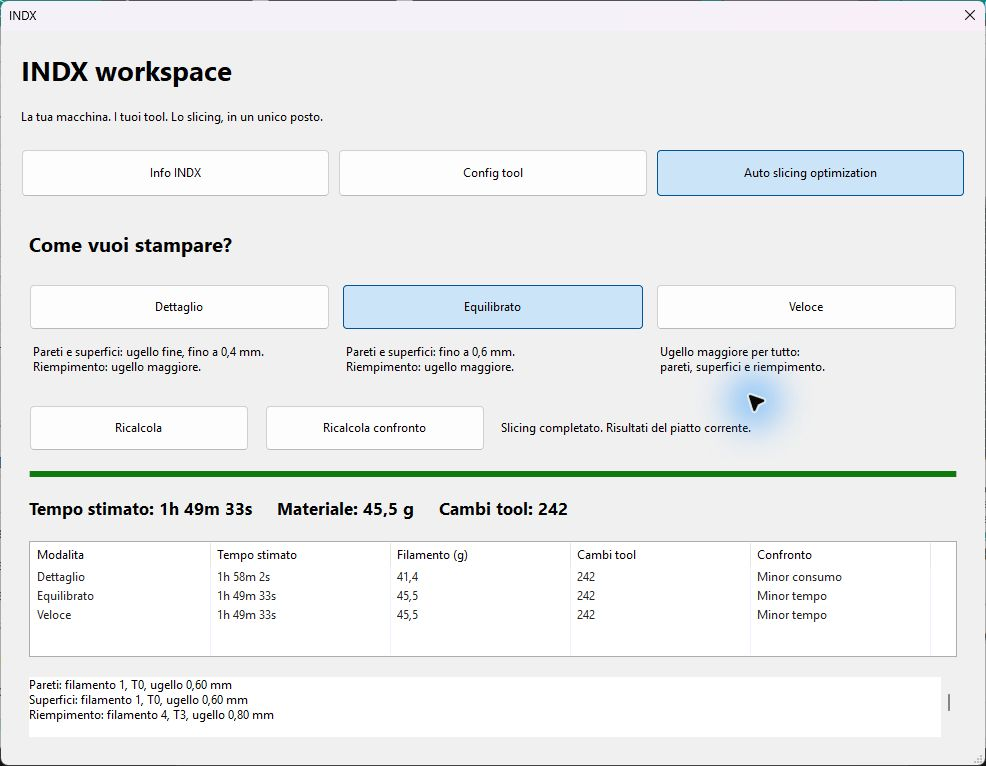
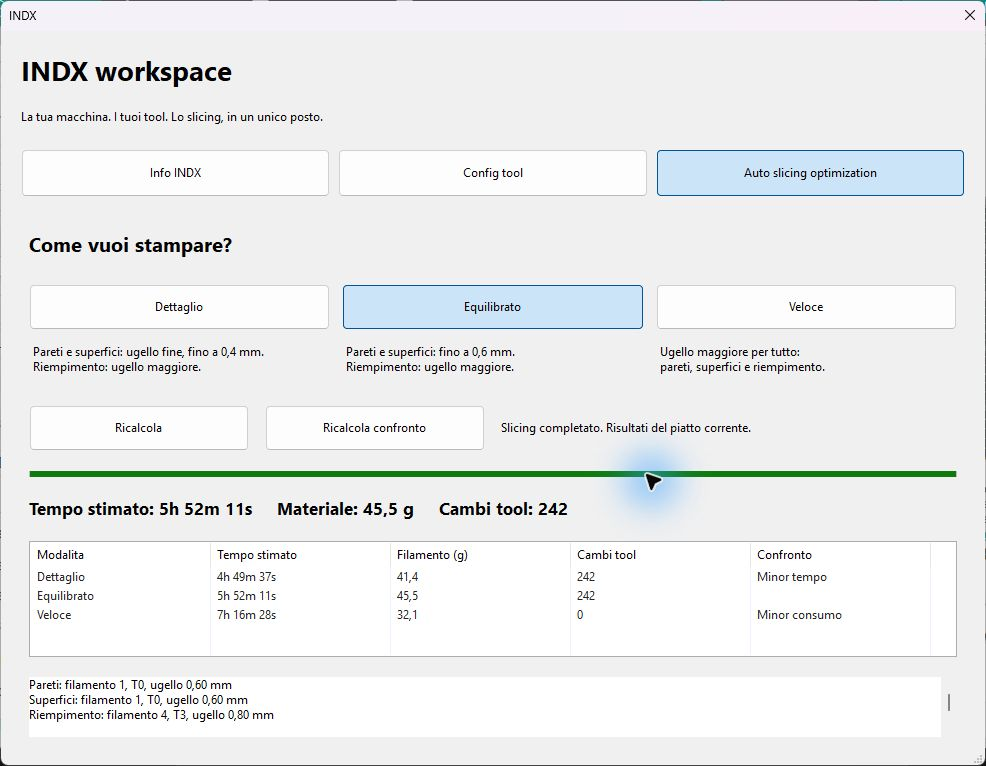
Propone infill alternativo solo dopo un risparmio misurato
Per ogni modalita confronta slicing completo della base e delle alternative, poi propone solo la piu rapida con risparmio in tempo/percentuale e differenza nei cambi tool. No ripristina la base; Si applica solo infill. Ricalcola la variante scelta e scarta stime invalide o obsolete.

Verificati casi piu lenti, accettazione e rifiuto; 348 asserzioni IndxChecks, 1434 nella matrice e regressioni FFF. Guida e prove aggiornate. Corrette collisioni dei nomi backup su orologi a bassa risoluzione con test a timestamp costante. Nessuna stampa fisica o aggiornamento della stampante.

diff --git a/TEST_PREVIEW_03.md b/TEST_PREVIEW_03.md
@@ -92,14 +92,21 @@ Verifica invalidazione: cambiando temporaneamente il layer da 0,20 a 0,18 mm, tu
 ![Confronto delle tre modalita](indx-confronto-modalita.png)
 
 
-## Confronto automatico e materiale alternativo
+## Confronto automatico e risparmio del materiale alternativo
 
-Build Windows Release completata. Test C++: 308 asserzioni in 13 casi IndxChecks; matrice di 60 slicing nativi con 967 asserzioni; regressioni CombinedInfill/UsedLayerTools/GCodeWriter: 467 asserzioni in 38 casi. Verificati ugelli alternativi maggiori, esclusione supporti/materiali sconosciuti e piccoli, conservazione delle proposte omogenee e mancato uso automatico di un materiale diverso.
+Build Windows Release. Test C++ IndxChecks: 348 asserzioni in 14 casi, incluso risparmio positivo/equivalente/negativo, precisione del secondo mostrato e tempi non validi. Matrice nativa di 60 slicing e regressioni CombinedInfill/UsedLayerTools/GCodeWriter: 1434 asserzioni in 39 casi. Clang-tidy non disponibile nella toolchain portatile priva di una installazione Visual Studio registrata.
 
-Prova UI isolata, nessuna connessione alla stampante: ingresso in Auto slicing optimization apre la richiesta senza premere Confronta. Mantenendo PLA, completate tutte le righe: Dettaglio 1h54m19s /39,1g/242 cambi; Equilibrato 1h46m16s /43,5g/242; Veloce 1h8m40s /32,1g/0. Infill PLA massimo 0,6.
+UI isolata senza connessione alla stampante: fixture con PLA su 0,6/0,4/0,6 e un profilo TEST SIMULATO PLA-CF su 0,8. Non attesta compatibilita o prestazioni fisiche. Portate e geometria servono solo a esercitare il software.
 
-Accettando il profilo TEST SIMULATO PLA-CF sullo 0,8, solo il riempimento sparso passa a T3; pareti e superfici restano PLA. Tre risultati completati senza ripetere la domanda: Dettaglio 1h58m2s /41,4g/242; Equilibrato e Veloce 1h49m33s /45,5g/242. Questo fixture non dimostra compatibilita fisica PLA/PLA-CF e mostra che un ugello maggiore puo anche peggiorare il tempo. Nessun invio, movimento, riscaldamento o flash.
+1. Portate tutte 8 mm3/s: le alternative piu lente non producono alcuna domanda. Tre modalita completate e infill principale ripristinato: Dettaglio 1h54m19s /39,1g/242 cambi; Equilibrato 1h46m16s /43,5g/242; Veloce 1h8m40s /32,1g/0.
+2. Portate simulate 1/1/1/30 mm3/s: Dettaglio passa da 8h49m51s a 4h49m37s, risparmio 240m14s, cambi 242 ->242. Accettato, infill T3/0,8 con pareti e superfici T1/0,4.
+3. Nello stesso confronto Veloce passa da 7h16m28s a 5h52m0s, risparmio 84m28s (19,4%), cambi 0 ->242. Rifiutato: la riga finale torna a 7h16m28s e zero cambi.
+4. Equilibrato accettato: 5h52m11s, infill T3 e pareti/superfici T0/0,6. La tabella distingue le tre varianti effettivamente accettate, non gli ultimi tentativi temporanei.
 
-![Esito del fixture con materiale alternativo](indx-materiale-alternativo-risultato.png)
+![Nessuna proposta quando non conviene](indx-alternativa-senza-risparmio.png)
+![Risparmio misurato e variazione dei cambi](indx-materiale-risparmio-cambi.png)
+![Risultati dopo accettazione e rifiuto](indx-materiale-alternativo-risultato.png)
 
-Verifica anche nella versione installata con quattro slot PLA: apertura della pagina avvia e completa automaticamente il confronto senza richiesta di materiale. Risultati confermati: 1h58m2s /41,4g/242; 1h49m33s /45,5g/242; 1h11m33s /38,0g/0. DLL installata uguale alla build verificata (SHA-256 87870f1152e91edf686b44ec57112130bcc2643d05ffc082c13e78e735b027fa).
+Nessun invio, movimento, riscaldamento o flash. Gli aumenti di portata del fixture non sono profili da utilizzare sulla stampante reale.
+
+Verifica finale del pacchetto e installazione/rollback temporanei superata. Corretto anche un conflitto fra nomi backup su orologi a bassa risoluzione: le directory ora vengono create in modo univoco e atomico. Il test forza sette salvataggi con lo stesso timestamp. Nessun aggiornamento della stampante eseguito in questa verifica.

diff --git a/NUOVE_FUNZIONI.md b/NUOVE_FUNZIONI.md
@@ -74,10 +74,14 @@ La pagina Auto slicing optimization conserva nella stessa tabella tempo stimato,
 Aprire **Auto slicing optimization** avvia automaticamente tre slicing nativi in sequenza; **Ricalcola confronto** permette di ripeterli, terminando con la modalita inizialmente selezionata. Anche il normale cambio di modalita aggiorna la relativa riga. Il confronto viene conservato durante la sessione del pannello; chiudendo il pannello occorre ricalcolarlo. Una modifica a piatto, modello, montaggio, filamento o parametri invalida i risultati. I tempi sono stime del motore Orca e il consumo comprende cio che Orca conteggia nel piatto, inclusa la torre se presente.
 
 
-## Materiale alternativo per il riempimento
+## Materiale alternativo: proposta solo dopo il confronto dei tempi
 
-Le proposte tengono pareti e superfici nel materiale assegnato alle pareti esterne (primo slot se automatico). Se un altro materiale e associato a un ugello piu grande del migliore disponibile per il riempimento principale, compare una richiesta prima del confronto. La scelta iniziale mantiene il materiale delle pareti. Si puo scegliere esplicitamente un altro profilo per il solo riempimento sparso; i materiali marcati per supporti, senza tipo dichiarato e gli ugelli uguali o piu piccoli sono esclusi.
+Per ogni modalita Orca calcola prima il piatto con il materiale principale, poi con ciascuna alternativa su ugello maggiore. Pareti e superfici mantengono il materiale assegnato alle pareti esterne (primo slot se automatico). Solo il riempimento sparso cambia nelle prove. Sono esclusi materiali per supporti, tipo sconosciuto e ugelli uguali o piu piccoli del migliore infill principale.
 
-Il diametro indica un'opportunita, non un risparmio garantito. Confermare l'alternativa solo dopo aver verificato adesione fra materiali, temperature e piano per il pezzo: il software non certifica la compatibilita dal nome. La tabella mostra i tempi effettivamente stimati dal motore, compresi i cambi tool. La scelta viene riutilizzata per le tre modalita e azzerata quando cambiano gli input o si chiude il pannello. Annulla interrompe il confronto. Supporti, pittura e assegnazioni locali conservano le regole precedenti.
+La richiesta compare solo se almeno un'alternativa ha un tempo totale inferiore alla precisione visualizzata (un secondo). Fra piu alternative viene proposta quella piu rapida. La richiesta mostra profilo/tool/diametro, tempo e cambi tool con e senza alternativa, risparmio in minuti/secondi e percentuale, e variazione firmata dei cambi tool. Sono stime native Orca dell'intero piatto, inclusi torre e cambi conteggiati dal motore, non una semplice proporzione fra diametri.
 
-![Richiesta su progetto sintetico di collaudo](indx-materiale-alternativo-richiesta.png)
+**Si** applica l'alternativa al solo infill; **No**, selezionato inizialmente, ripristina la variante principale. La versione scelta viene rislicerata prima di aggiornare la tabella. Alternative piu lente o equivalenti non generano richieste. Una prova fallita non giustifica una proposta e ripristina la base. Le scelte sono per modalita: un materiale puo convenire in Dettaglio e non in Veloce. Cambiare input invalida le misure; il confronto puo richiedere piu slicing della precedente versione. Durante le prove la modifica del progetto e la chiusura del pannello attendono il completamento, per non lasciare attiva una variante temporanea.
+
+Il vantaggio temporale non certifica compatibilita fisica: confermare solo dopo aver verificato adesione, temperature e piano per la coppia di materiali. Supporti, pittura e assegnazioni locali conservano le regole precedenti. Nessuna prova software avvia la stampante.
+
+![Risparmio e cambi tool nel fixture simulato](indx-materiale-risparmio-cambi.png)
